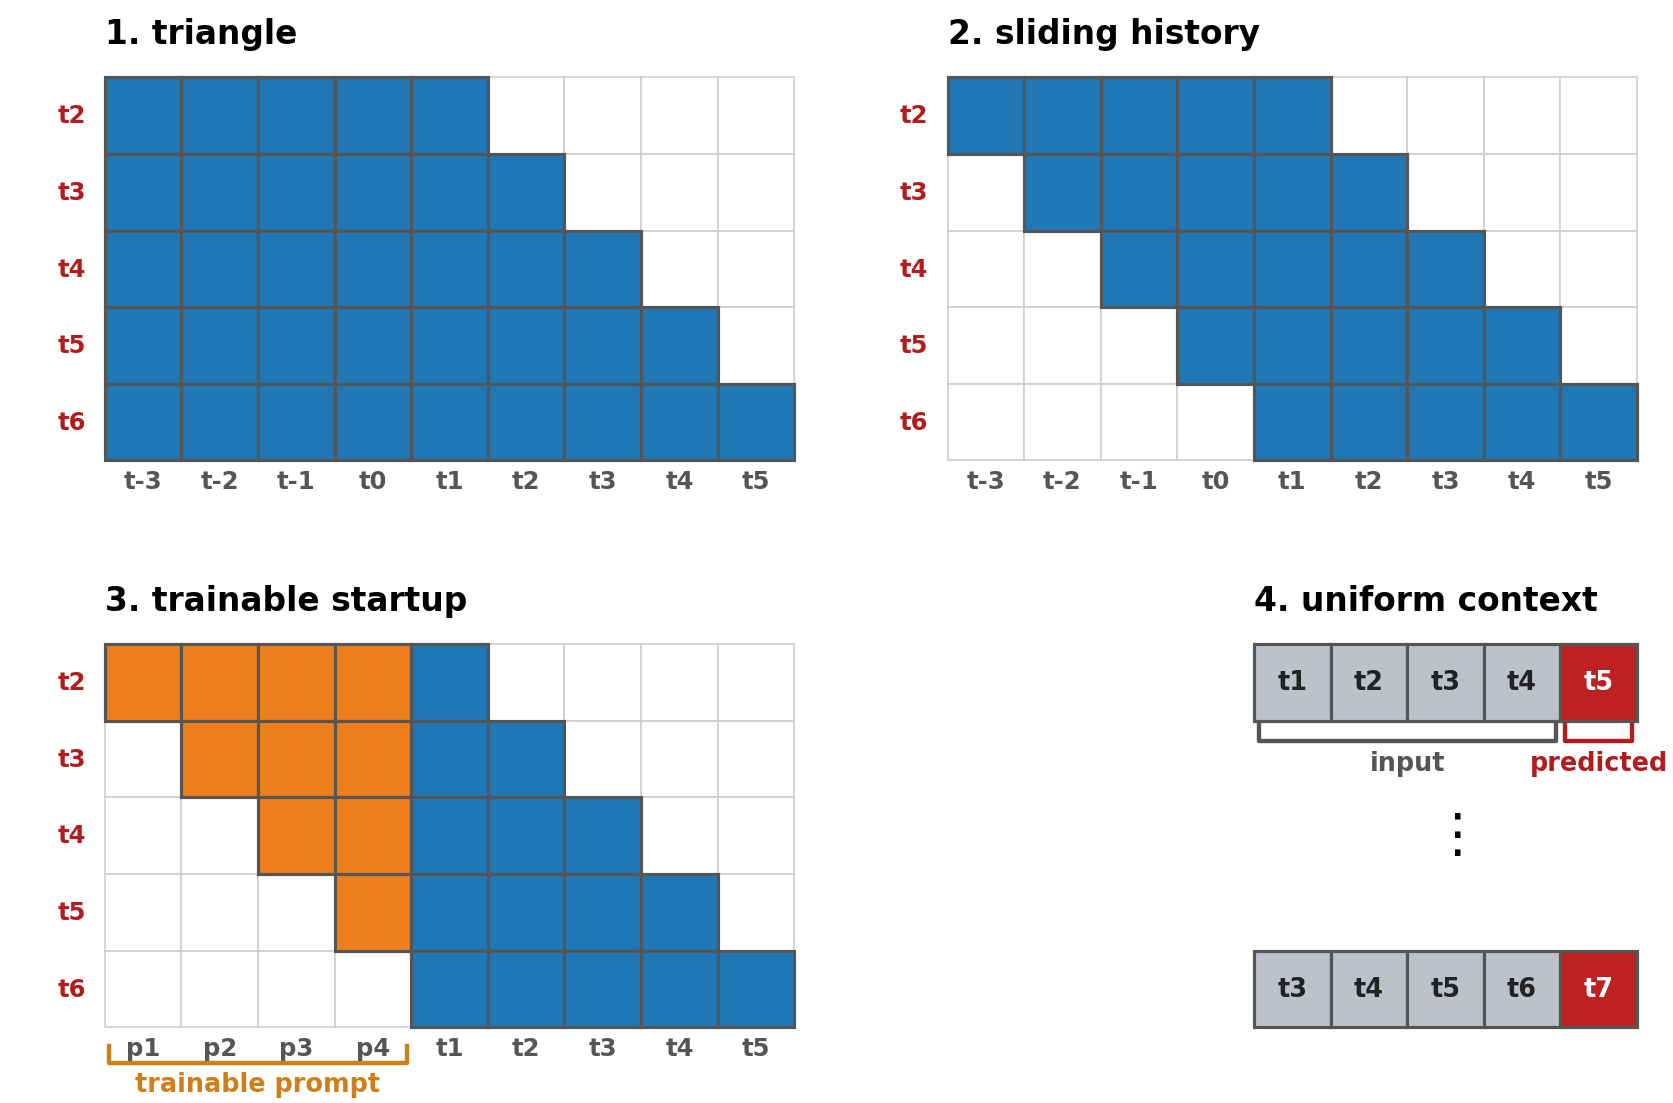
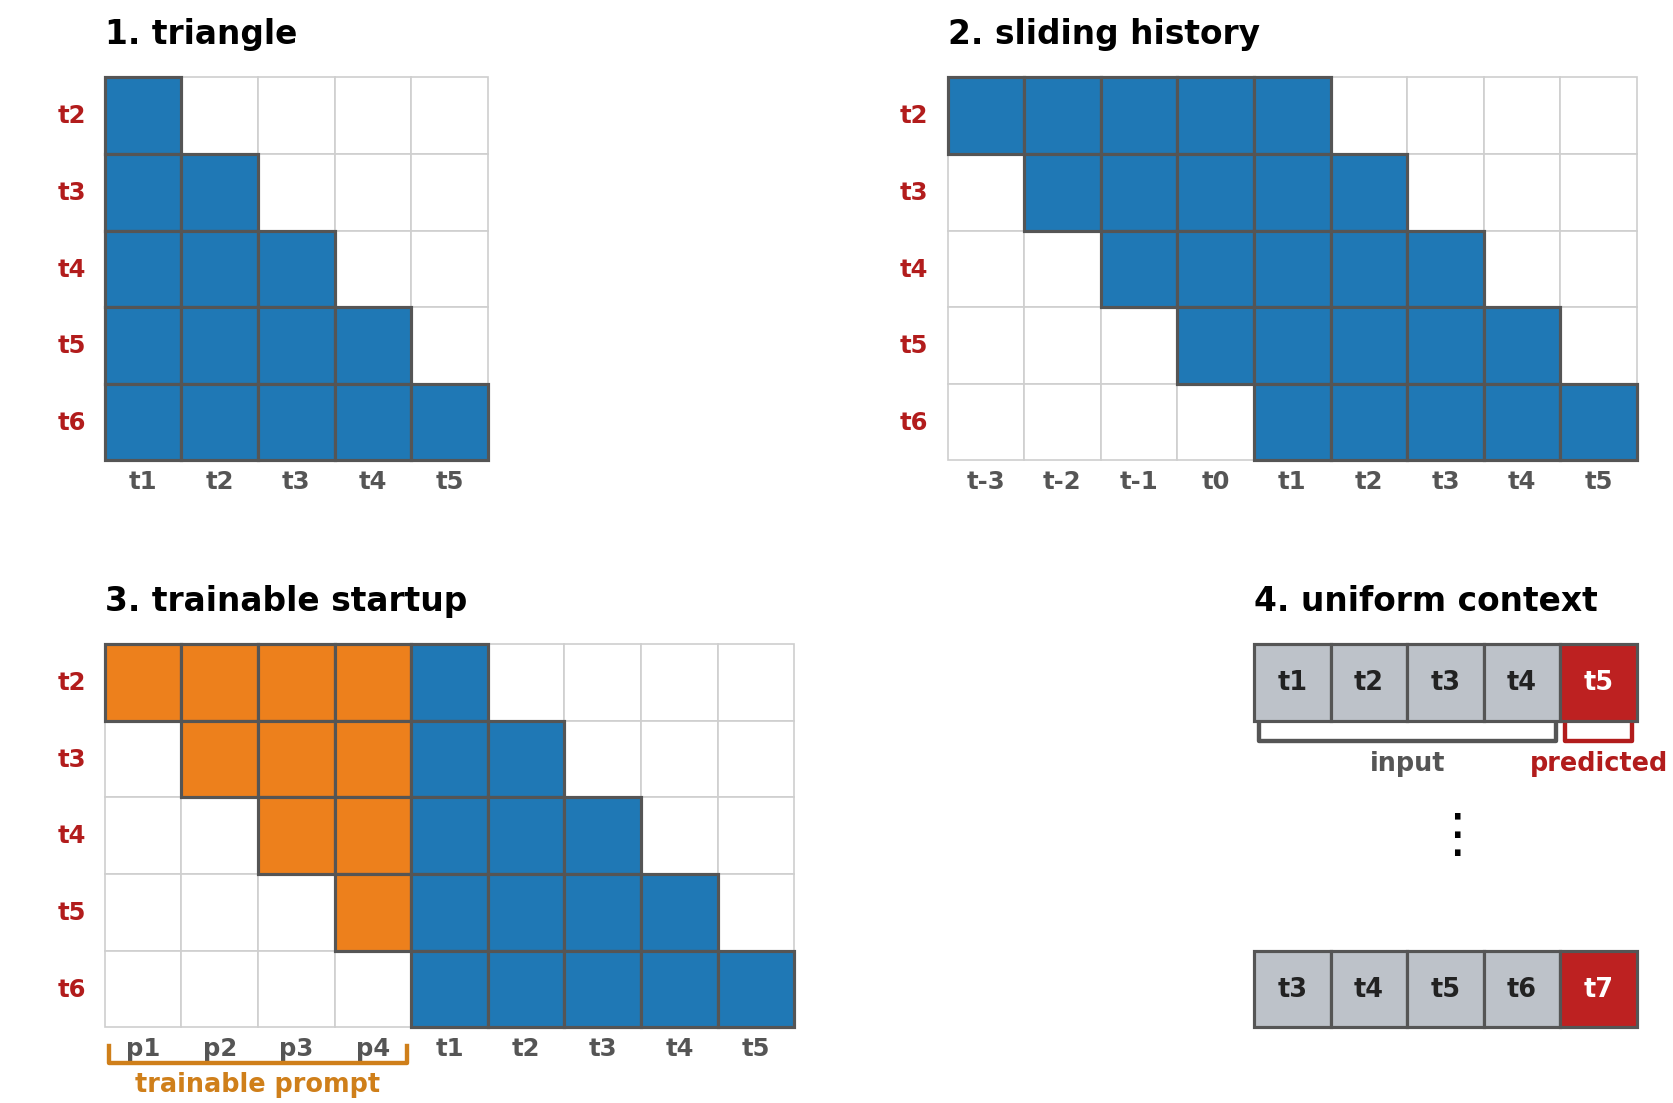
paper fig: keep triangle at 5x5 (panels 2/3 stay 5x9 W=5)

Changed region(s): [[0.0932, 0.0617, 0.4973, 0.4624], [0.1243, 0.4316, 0.1865, 0.4624], [0.0622, 0.4316, 0.0932, 0.4624]]

diff --git a/experiments/07_autoresearch_sink/scripts/make_windowed_attention_fig.py b/experiments/07_autoresearch_sink/scripts/make_windowed_attention_fig.py
@@ -28,9 +28,9 @@ def attn(ox,oy,title,fill,xlabels):
 # CAUSAL (content side only, 5x5)  -- left col, top
 ox,oy=0,0; TT(ox,oy-.35,"1. triangle")
 for r in range(5):
-    for c in range(9): (Cl(ox+c,oy+r,CONTENT) if c<=4+r else Em(ox+c,oy+r))
+    for c in range(5): (Cl(ox+c,oy+r,CONTENT) if c<=r else Em(ox+c,oy+r))
     YL(ox-.25,oy+r,PRED[r],PRD)
-for c,t in enumerate(["t-3","t-2","t-1","t0","t1","t2","t3","t4","t5"]): XL(ox+c,oy+5+.12,t,CTX)
+for c,t in enumerate(["t1","t2","t3","t4","t5"]): XL(ox+c,oy+5+.12,t,CTX)
 # SLIDING+HISTORY  -- right col, top
 attn(11.0,0,"2. sliding history",HISTC,["t-3","t-2","t-1","t0","t1","t2","t3","t4","t5"])
 # TRAINABLE STARTUP (attention) -- bottom-LEFT (panel 3)
